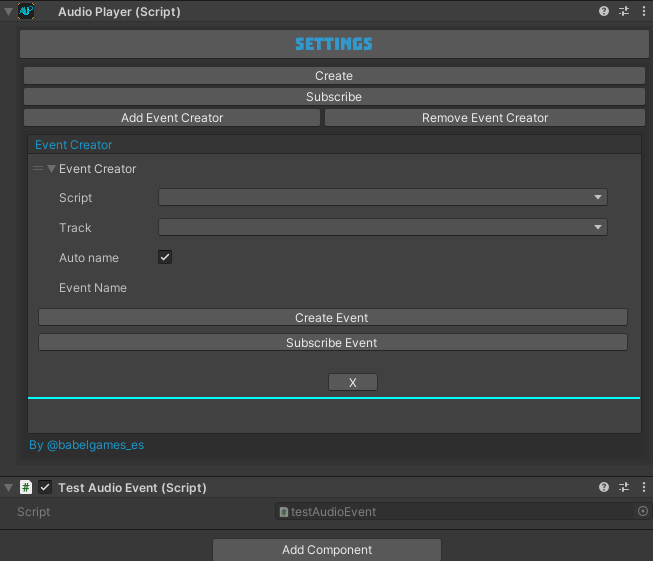
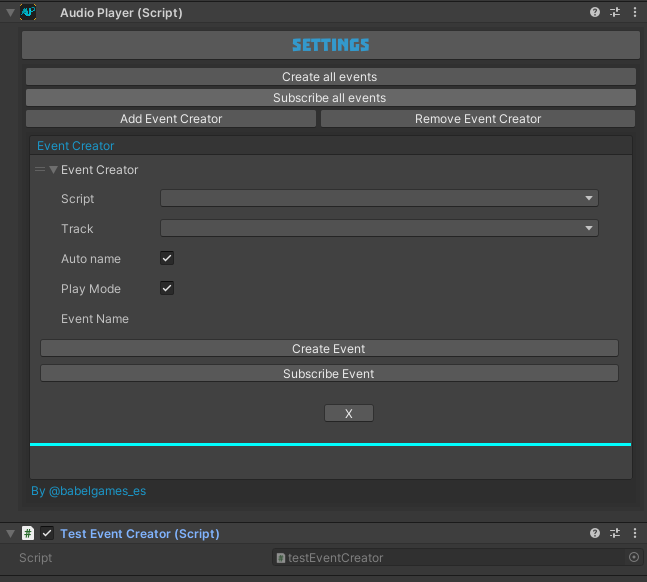
Update 1.1 new docs

diff --git a/Documentation.md b/Documentation.md
@@ -186,6 +186,14 @@ invoked).
 
         ![Audio Manager](Resources/18.png)
 
+        - If you want to use that event for play the sound you have to write the name + PlayEvent or leave it by default with any name.
+
+            ![Audio Manager](Resources/1.1_1.png)
+
+        - If you want to use it for stop the track, write the name + StopEvent.
+
+            ![Audio Manager](Resources/1.1_2.png)
+
         **Notice that you need the system namespace for declare events**
 
         - Then you can return to the AudioPlayer component and select 
@@ -259,6 +267,12 @@ unchecking the Auto name field.
 
     ![Audio Manager](Resources/28.png)
 
+    For this tutorial we are going to create one event with the play mode and another with the stop mode. 
+
+    ![Audio Manager](Resources/1.1_3.png)
+
+    We are going to create the stop event in the asss method for test it later.
+
 You can now create this event by using the Create Event button which 
 creates the actual event, or the Create button which creates all the events 
 of the list.
@@ -300,6 +314,8 @@ Don’t destroy on load because of the singleton pattern.
 
 ![Audio Manager](Resources/33.png)
 
+Also take a look at some examples of 2d and 3d configurations:
+
 The sources with 2D configuration.
 
 ![Audio Manager](Resources/34.png)
@@ -308,28 +324,26 @@ The sources with 3D configuration at the object referenced.
 
 ![Audio Manager](Resources/35.png)
 
-Another incredible feature of the automatic event creation is that you can 
-have a method with parameters or with invocations or with comments with 
-the same name before the method, but the component will find the method 
-anyways.
+Now we are going to test the stop event, so write the next code in the update method of the testEventCreator script:
 
-Like in that case:
+``` C#
+void Update ()
+{
+    if (Input.GetKeyDown(KeyCode.Return))
+    {
+       asss();
+    }
 
-![Audio Manager](Resources/36.png)
+}
+```
 
-For the test, we are going to create the other events of the Fx sounds 
-at the asss method of the same testEventCreator script.
+Like that:
 
-![Audio Manager](Resources/37.png)
+![Audio Manager](Resources/1.1_4.png)
+ 
+With that done, now we can call the stop event of the asss function, so please, replay the game and test it by pressing the Intro of the keyboard. 
 
-Test the Create button, it would create only the events that don’t
-already exist at the selected script. As you can see all the events are 
-created correctly.
+As you can see the sound stops perfectly.
 
-![Audio Manager](Resources/38.png)
-
-And subscribe them all too with the Subscribe button.
-
-![Audio Manager](Resources/39.png)
 
 That's all for now, now enjoy the tool :)
